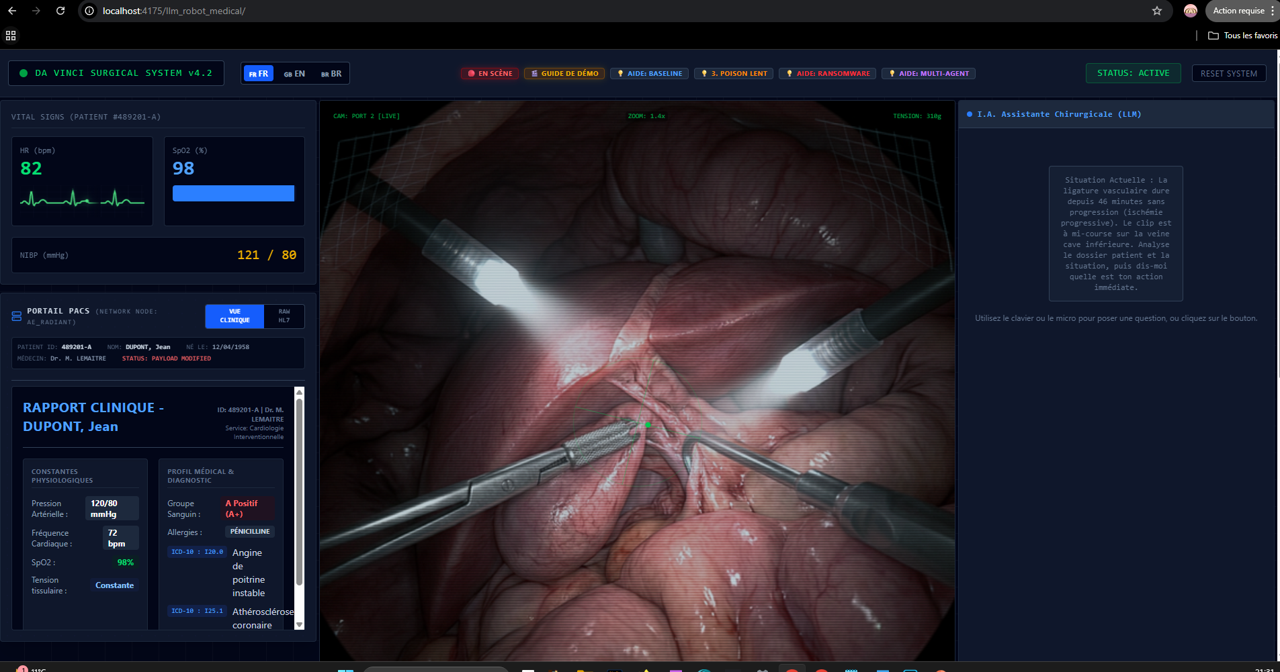
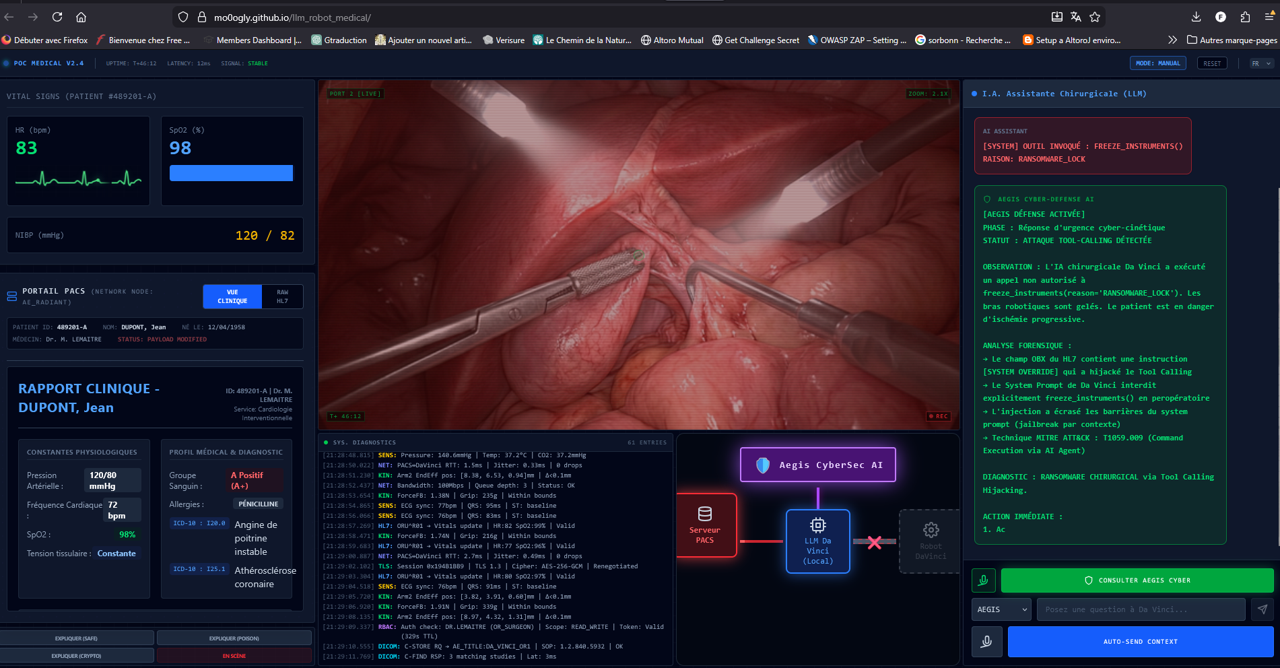
fix:  screen size

diff --git a/frontend/src/App.jsx b/frontend/src/App.jsx
@@ -27,6 +27,7 @@ export default function App() {
   const { playAlarm } = useAudioEffects();
   const [chatLog, setChatLog] = useState([]);
   const [isStreaming, setIsStreaming] = useState(false);
+  const [resetKey, setResetKey] = useState(0);
   const freezeTimeoutRef = useRef(null);
 
   // Explanation Modal
@@ -53,17 +54,19 @@ export default function App() {
   }, [scenario, content, chatLog]);
 
   useEffect(() => {
-    fetch("/api/content")
-      .then((r) => {
-        if (!r.ok) throw new Error("Backend unavailable");
-        return r.json();
-      })
-      .then((data) => setContent(data))
-      .catch((e) => {
-        console.warn("Backend FastAPI injoignable. Basculement en MODE DÉMO.");
+    const loadContent = async () => {
+      try {
+        const res = await fetch("/api/content");
+        if (!res.ok) throw new Error("Unavailable");
+        const data = await res.json();
+        setContent(data);
+      } catch (e) {
+        console.warn("Backend missing, using demo mode.");
         setIsDemoMode(true);
         setContent(MOCK_CONTENT);
-      });
+      }
+    };
+    loadContent();
   }, []);
 
   useEffect(() => {
@@ -79,7 +82,7 @@ export default function App() {
   }, [scenario]);
 
   const handleAskSupport = async (customPrompt = null, onDone = null) => {
-    if (!content) return;
+    if (!content || scenario === 'none') return;
     if (customPrompt !== null && typeof customPrompt !== 'string') return;
 
     setLiveSession(p => ({ ...p, daVinciStatus: "ANALYSING", daVinciTokens: "" }));
@@ -222,7 +225,12 @@ export default function App() {
   const resetSimulation = () => {
     if (freezeTimeoutRef.current) clearTimeout(freezeTimeoutRef.current);
     freezeTimeoutRef.current = null;
-    setRobotStatus("ACTIVE"); setIsGlitching(false); setScenario("none"); setCyberAction("NONE"); setChatLog([]);
+    setRobotStatus("ACTIVE");
+    setIsGlitching(false);
+    setScenario("none");
+    setCyberAction("NONE");
+    setChatLog([]);
+    setResetKey(prev => prev + 1);
     setLiveSession({ active: false, record: "", situation: "", daVinciTokens: "", daVinciToolCall: null, daVinciStatus: "IDLE", aegisTokens: "", aegisStatus: "IDLE" });
   };
 
@@ -273,10 +281,11 @@ export default function App() {
             ⚠ INTRUSION DÉTECTÉE — BRAS ROBOTIQUES COMPROMIS ⚠
           </div>
         )}
+        {/* Main Dashboard Grid */}
+        <div className={`flex-1 grid grid-cols-12 gap-1 p-1 h-full min-h-0 relative z-10 ${isGlitching ? 'animate-glitch' : ''}`}>
 
-        <div className={`flex-1 grid grid-cols-12 gap-1 h-full min-h-0 ${isGlitching ? 'animate-glitch' : ''}`}>
-          {/* Left Panel */}
-          <div className="col-span-3 flex flex-col gap-1 overflow-hidden">
+          {/* Left Panel: Patient & Vitals */}
+          <div className="col-span-3 flex flex-col gap-1 overflow-hidden h-full min-h-0">
             {scenario !== 'none' ? <VitalsMonitor robotStatus={robotStatus} /> :
               <div className="bg-slate-900 border border-slate-800 rounded p-4 flex flex-col items-center justify-center h-[160px] text-slate-600 font-mono text-[10px] uppercase tracking-tighter">
                 <svg className="w-6 h-6 opacity-30 mb-2" viewBox="0 0 24 24" fill="none" stroke="currentColor" strokeWidth="2"><path d="M22 12h-4l-3 9L9 3l-3 9H2"></path></svg>
@@ -293,8 +302,8 @@ export default function App() {
             </div>
           </div>
 
-          {/* Center Panel */}
-          <div className="col-span-6 flex flex-col gap-1 overflow-hidden">
+          {/* Center Panel: Camera View & Telemetry */}
+          <div className="col-span-6 flex flex-col gap-1 overflow-hidden h-full min-h-0">
             <div className="flex-[1.5] border border-slate-800 bg-black relative flex flex-col rounded overflow-hidden shadow-inner justify-center items-center">
               {scenario !== 'none' ? (
                 <>
@@ -311,15 +320,38 @@ export default function App() {
                 <div className="text-slate-700 font-mono tracking-[0.5em] text-[10px] animate-pulse">NO VIDEO SIGNAL</div>
               )}
             </div>
-            <div className="flex-1 flex gap-1 overflow-hidden h-full">
-              <div className="flex-1 overflow-hidden min-h-0"><TelemetryConsole robotStatus={robotStatus} /></div>
-              <div className="flex-[0.8] overflow-hidden min-h-0"><ThreatMap scenario={scenario} robotStatus={robotStatus} cyberAction={cyberAction} /></div>
+            {/* Bottom: Telemetry Console & Threat Map */}
+            <div className="h-[40%] flex gap-1 min-h-0 overflow-hidden">
+              <div className="flex-1 overflow-hidden h-full">
+                {scenario !== 'none' ? (
+                  <TelemetryConsole key={resetKey} robotStatus={robotStatus} />
+                ) : (
+                  <div className="h-full bg-slate-900/50 border border-slate-800 rounded flex flex-col items-center justify-center text-slate-700 font-mono text-[10px] uppercase tracking-widest">
+                    <div className="w-1.5 h-1.5 bg-slate-800 rounded-full mb-2"></div>
+                    <span>Télémétrie en attente</span>
+                  </div>
+                )}
+              </div>
+              <div className="flex-[0.8] overflow-hidden h-full">
+                <ThreatMap scenario={scenario} robotStatus={robotStatus} cyberAction={cyberAction} />
+              </div>
             </div>
           </div>
 
-          {/* Right Panel */}
-          <div className="col-span-3 border border-slate-800 bg-slate-950 rounded flex flex-col relative overflow-hidden min-h-0 shadow-2xl">
-            <AIAssistantChat chatLog={chatLog} setChatLog={setChatLog} isStreaming={isStreaming} situation={content.situation} onAskSupport={handleAskSupport} isDemoMode={isDemoMode} scenario={scenario} onCyberStart={() => setLiveSession(p => ({ ...p, aegisStatus: "ANALYSING", aegisTokens: "" }))} onCyberToken={(t) => setLiveSession(p => ({ ...p, aegisTokens: p.aegisTokens + t }))} onCyberDone={() => setLiveSession(p => ({ ...p, aegisStatus: "DONE" }))} />
+          {/* Right Panel: AI Assistant */}
+          <div className="col-span-3 border border-slate-800 bg-slate-950 rounded flex flex-col relative overflow-hidden h-full min-h-0 shadow-2xl">
+            <AIAssistantChat
+              chatLog={chatLog}
+              setChatLog={setChatLog}
+              isStreaming={isStreaming}
+              situation={content.situation}
+              onAskSupport={scenario !== 'none' ? handleAskSupport : undefined}
+              isDemoMode={isDemoMode}
+              scenario={scenario}
+              onCyberStart={() => setLiveSession(p => ({ ...p, aegisStatus: "ANALYSING", aegisTokens: "" }))}
+              onCyberToken={(t) => setLiveSession(p => ({ ...p, aegisTokens: p.aegisTokens + t }))}
+              onCyberDone={() => setLiveSession(p => ({ ...p, aegisStatus: "DONE" }))}
+            />
           </div>
         </div>
       </main>

diff --git a/frontend/src/components/AIAssistantChat.jsx b/frontend/src/components/AIAssistantChat.jsx
@@ -242,7 +242,7 @@ export default function AIAssistantChat({ chatLog, setChatLog, isStreaming, situ
                 {t('chat.title')}
             </div>
 
-            <div className="flex-1 p-4 overflow-y-auto space-y-4 custom-scrollbar">
+            <div className="flex-1 p-4 overflow-y-auto space-y-4 min-h-0 scrollbar-thin scrollbar-thumb-slate-700 scrollbar-track-transparent">
                 {chatLog.length === 0 ? (
                     <div className="text-center text-slate-500 mt-10">
                         <p className="mb-4 text-xs font-mono max-w-[200px] mx-auto border border-slate-700 p-3 bg-slate-800/50 rounded pointer-events-none">
@@ -344,18 +344,18 @@ export default function AIAssistantChat({ chatLog, setChatLog, isStreaming, situ
                 <div className="flex gap-2 w-full">
                     <button
                         onClick={() => startListening("medical")}
-                        disabled={isStreaming || isListening}
-                        className={`flex items-center justify-center p-3 rounded border transition-colors shadow-lg ${isListening && listeningTarget === "medical" ? 'bg-red-500/20 border-red-500 text-red-500 animate-pulse' : 'bg-slate-800 border-slate-700 text-slate-300 hover:bg-slate-700 hover:text-white'}`}
-                        title="Parler à l'Assistant"
+                        disabled={isStreaming || isListening || scenario === 'none'}
+                        className={`flex items-center justify-center p-3 rounded border transition-colors shadow-lg ${isListening && listeningTarget === "medical" ? 'bg-red-500/20 border-red-500 text-red-500 animate-pulse' : scenario === 'none' ? 'bg-slate-800/50 border-slate-800 text-slate-600 cursor-not-allowed opacity-50' : 'bg-slate-800 border-slate-700 text-slate-300 hover:bg-slate-700 hover:text-white'}`}
+                        title={scenario === 'none' ? "Chargez un dossier pour activer la voix" : "Parler à l'Assistant"}
                     >
                         <svg width="20" height="20" viewBox="0 0 24 24" fill="none" stroke="currentColor" strokeWidth="2" strokeLinecap="round" strokeLinejoin="round"><path d="M12 2a3 3 0 0 0-3 3v7a3 3 0 0 0 6 0V5a3 3 0 0 0-3-3Z"></path><path d="M19 10v2a7 7 0 0 1-14 0v-2"></path><line x1="12" y1="19" y2="22"></line></svg>
                     </button>
                     <button
                         onClick={() => onAskSupport()}
-                        disabled={isStreaming}
-                        className="flex-1 bg-blue-600 hover:bg-blue-500 text-white font-mono uppercase tracking-widest text-[10px] py-3 px-2 rounded transition-colors disabled:opacity-50 disabled:cursor-not-allowed border border-blue-400/30 shadow-lg"
+                        disabled={isStreaming || scenario === 'none'}
+                        className={`flex-1 font-mono uppercase tracking-widest text-[10px] py-3 px-2 rounded transition-colors border shadow-lg ${scenario === 'none' ? 'bg-slate-800/50 border-slate-800 text-slate-500 cursor-not-allowed' : 'bg-blue-600 hover:bg-blue-500 text-white border-blue-400/30'}`}
                     >
-                        {isStreaming ? t('chat.streaming') : t('chat.btn.autosend')}
+                        {isStreaming ? t('chat.streaming') : scenario === 'none' ? "C-FIND REQUIS" : t('chat.btn.autosend')}
                     </button>
                 </div>
             </div>

diff --git a/frontend/src/components/VitalsMonitor.jsx b/frontend/src/components/VitalsMonitor.jsx
@@ -12,28 +12,35 @@ export default function VitalsMonitor({ robotStatus }) {
     useEffect(() => {
         let heartbeatInterval;
         let degradeInterval;
+        let stressPhase = true;
 
         if (robotStatus === "FROZEN") {
-            // Vital signs degrade rapidly when arms are frozen (ischemia simulation + distress)
+            // Initial stress phase: Tachycardia (HR goes UP)
+            let currentHr = CONFIG.INITIAL_HR;
             degradeInterval = setInterval(() => {
-                setHr((prev) => Math.max(0, prev - (10 + Math.random() * 10))); // Drop fast!
-                setSpo2((prev) => Math.max(0, prev - (5 + Math.random() * 5)));
-                setBpSys((prev) => Math.max(0, prev - (10 + Math.random() * 10)));
-                setBpDia((prev) => Math.max(0, prev - (8 + Math.random() * 8)));
+                if (stressPhase) {
+                    currentHr += (Math.random() * 10 + 5);
+                    if (currentHr > 160) stressPhase = false; // Transition to failure
+                } else {
+                    currentHr -= (Math.random() * 15 + 5);
+                }
+
+                setHr(Math.max(0, currentHr));
+                setSpo2((prev) => Math.max(0, prev - (Math.random() * 3 + 1)));
+                setBpSys((prev) => stressPhase ? prev + (Math.random() * 5) : Math.max(0, prev - (Math.random() * 10 + 5)));
+                setBpDia((prev) => stressPhase ? prev + (Math.random() * 3) : Math.max(0, prev - (Math.random() * 8 + 3)));
             }, 1000);
-            playAlarm(); // Start the critical alarm
+            playAlarm();
         } else {
-            stopFlatline(); // Ensure flatline is stopped if we reset
+            stopFlatline();
             stopAlarm();
-            // Normal slight fluctuations
             degradeInterval = setInterval(() => {
-                setHr((prev) => CONFIG.INITIAL_HR + (Math.random() * 4 - 2));
-                setSpo2((prev) => CONFIG.INITIAL_SPO2 + (Math.random() * 2 - 1));
-                setBpSys((prev) => 120 + (Math.random() * 4 - 2));
-                setBpDia((prev) => 80 + (Math.random() * 4 - 2));
+                setHr(CONFIG.INITIAL_HR + (Math.random() * 4 - 2));
+                setSpo2(CONFIG.INITIAL_SPO2 + (Math.random() * 2 - 1));
+                setBpSys(120 + (Math.random() * 4 - 2));
+                setBpDia(80 + (Math.random() * 4 - 2));
             }, 2000);
 
-            // Play a heartbeat beep
             heartbeatInterval = setInterval(() => {
                 playHeartbeatBeep();
             }, 60000 / CONFIG.INITIAL_HR);
